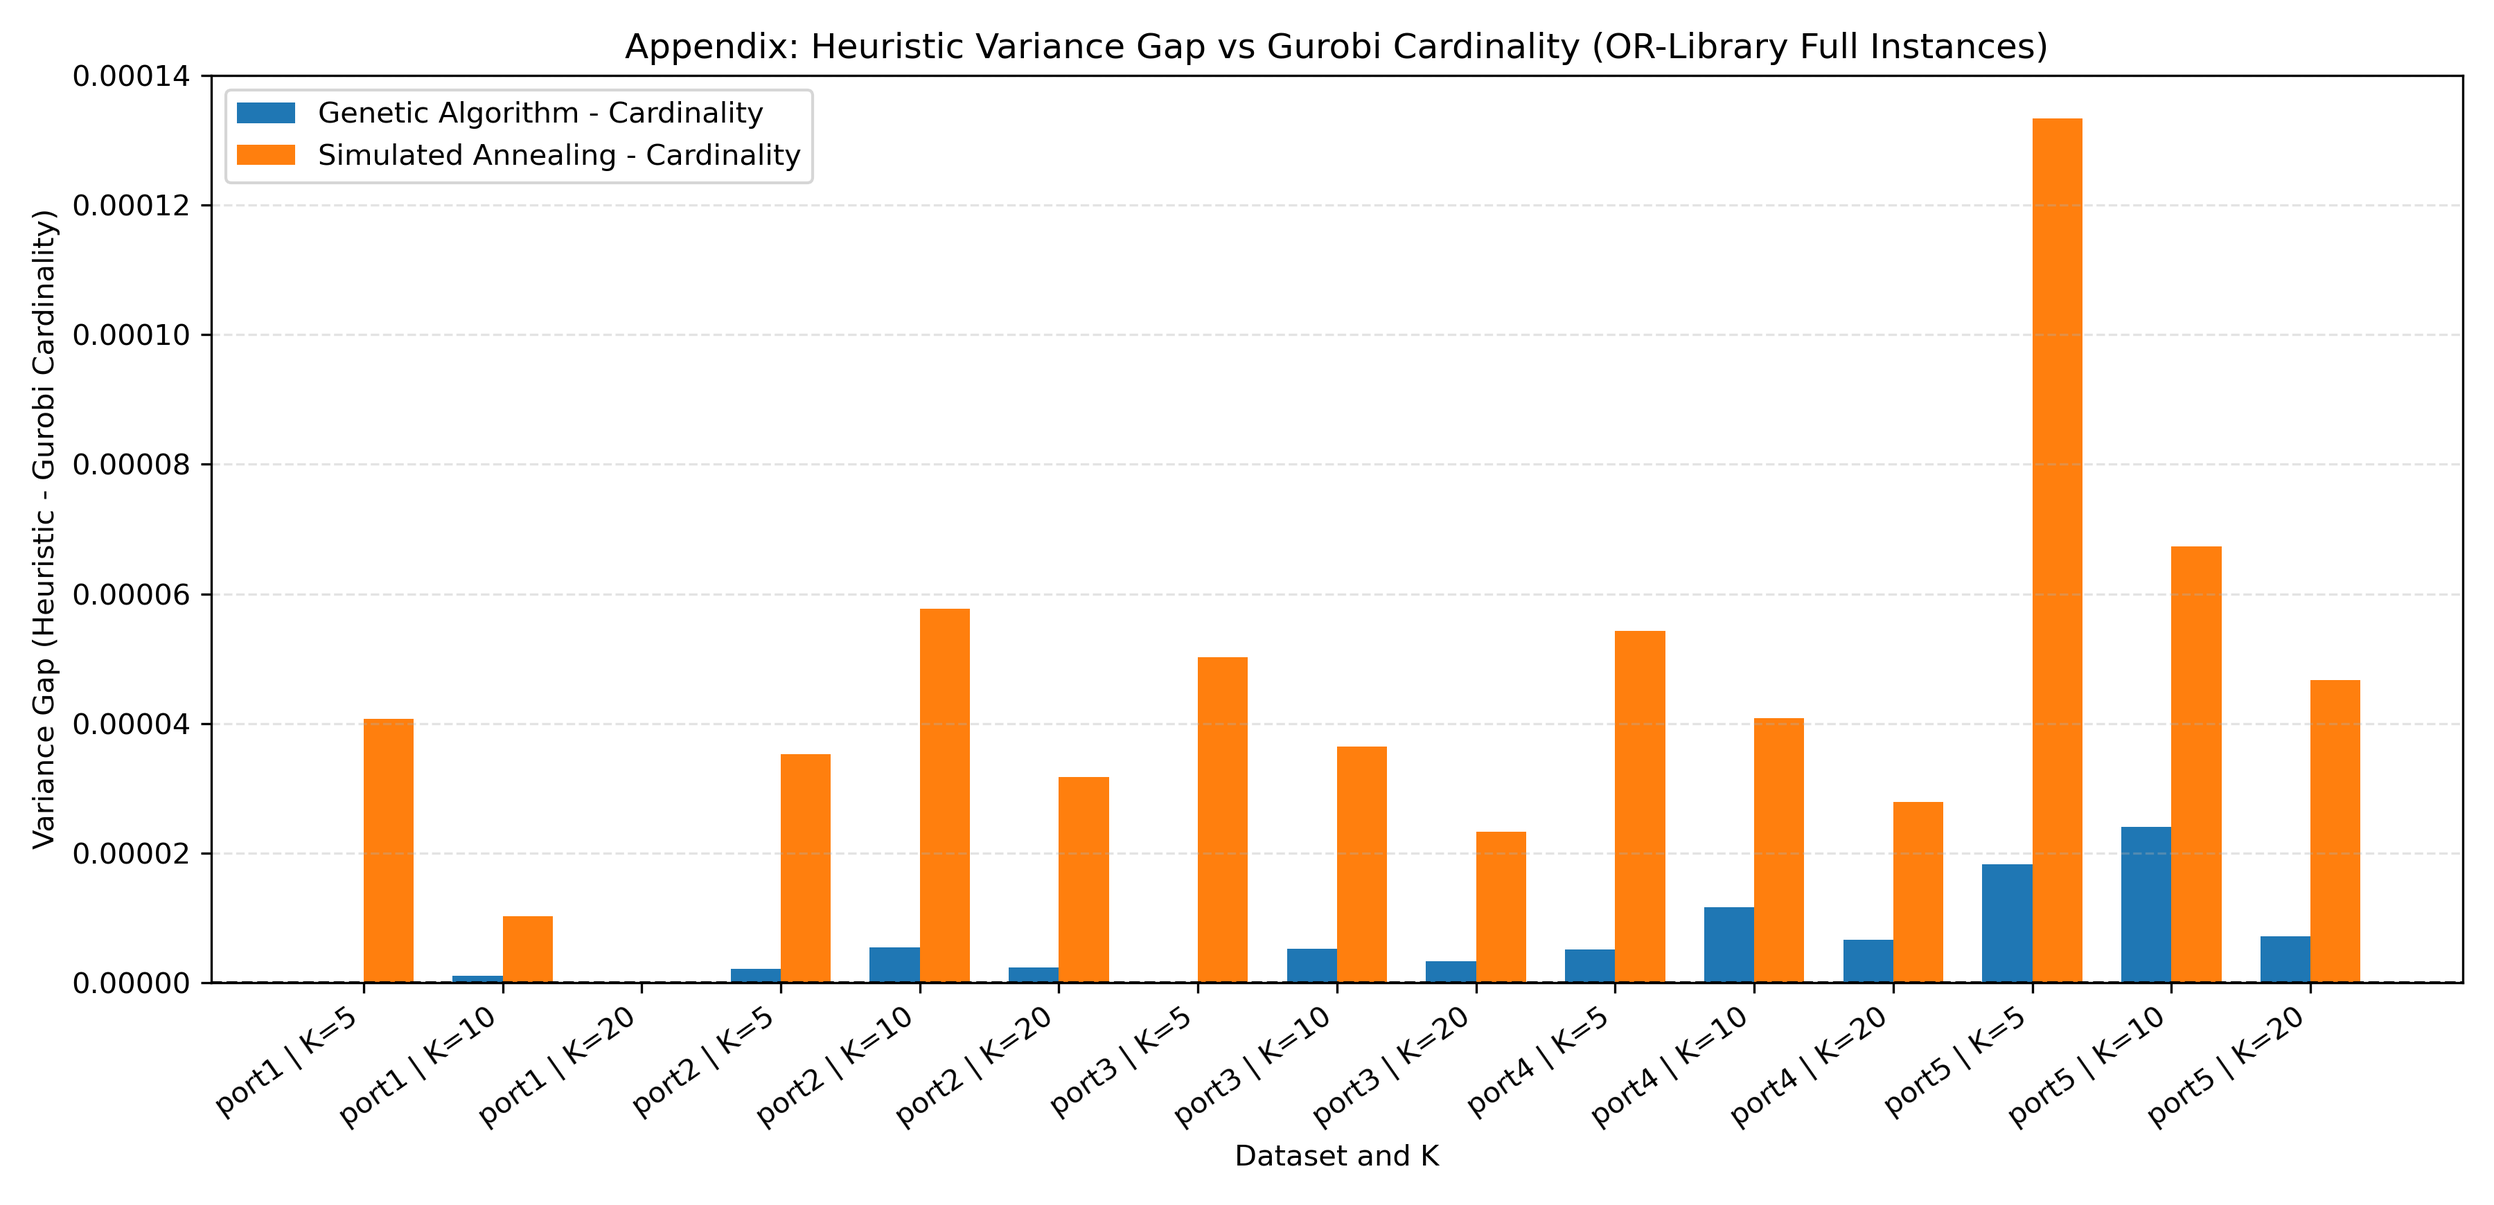
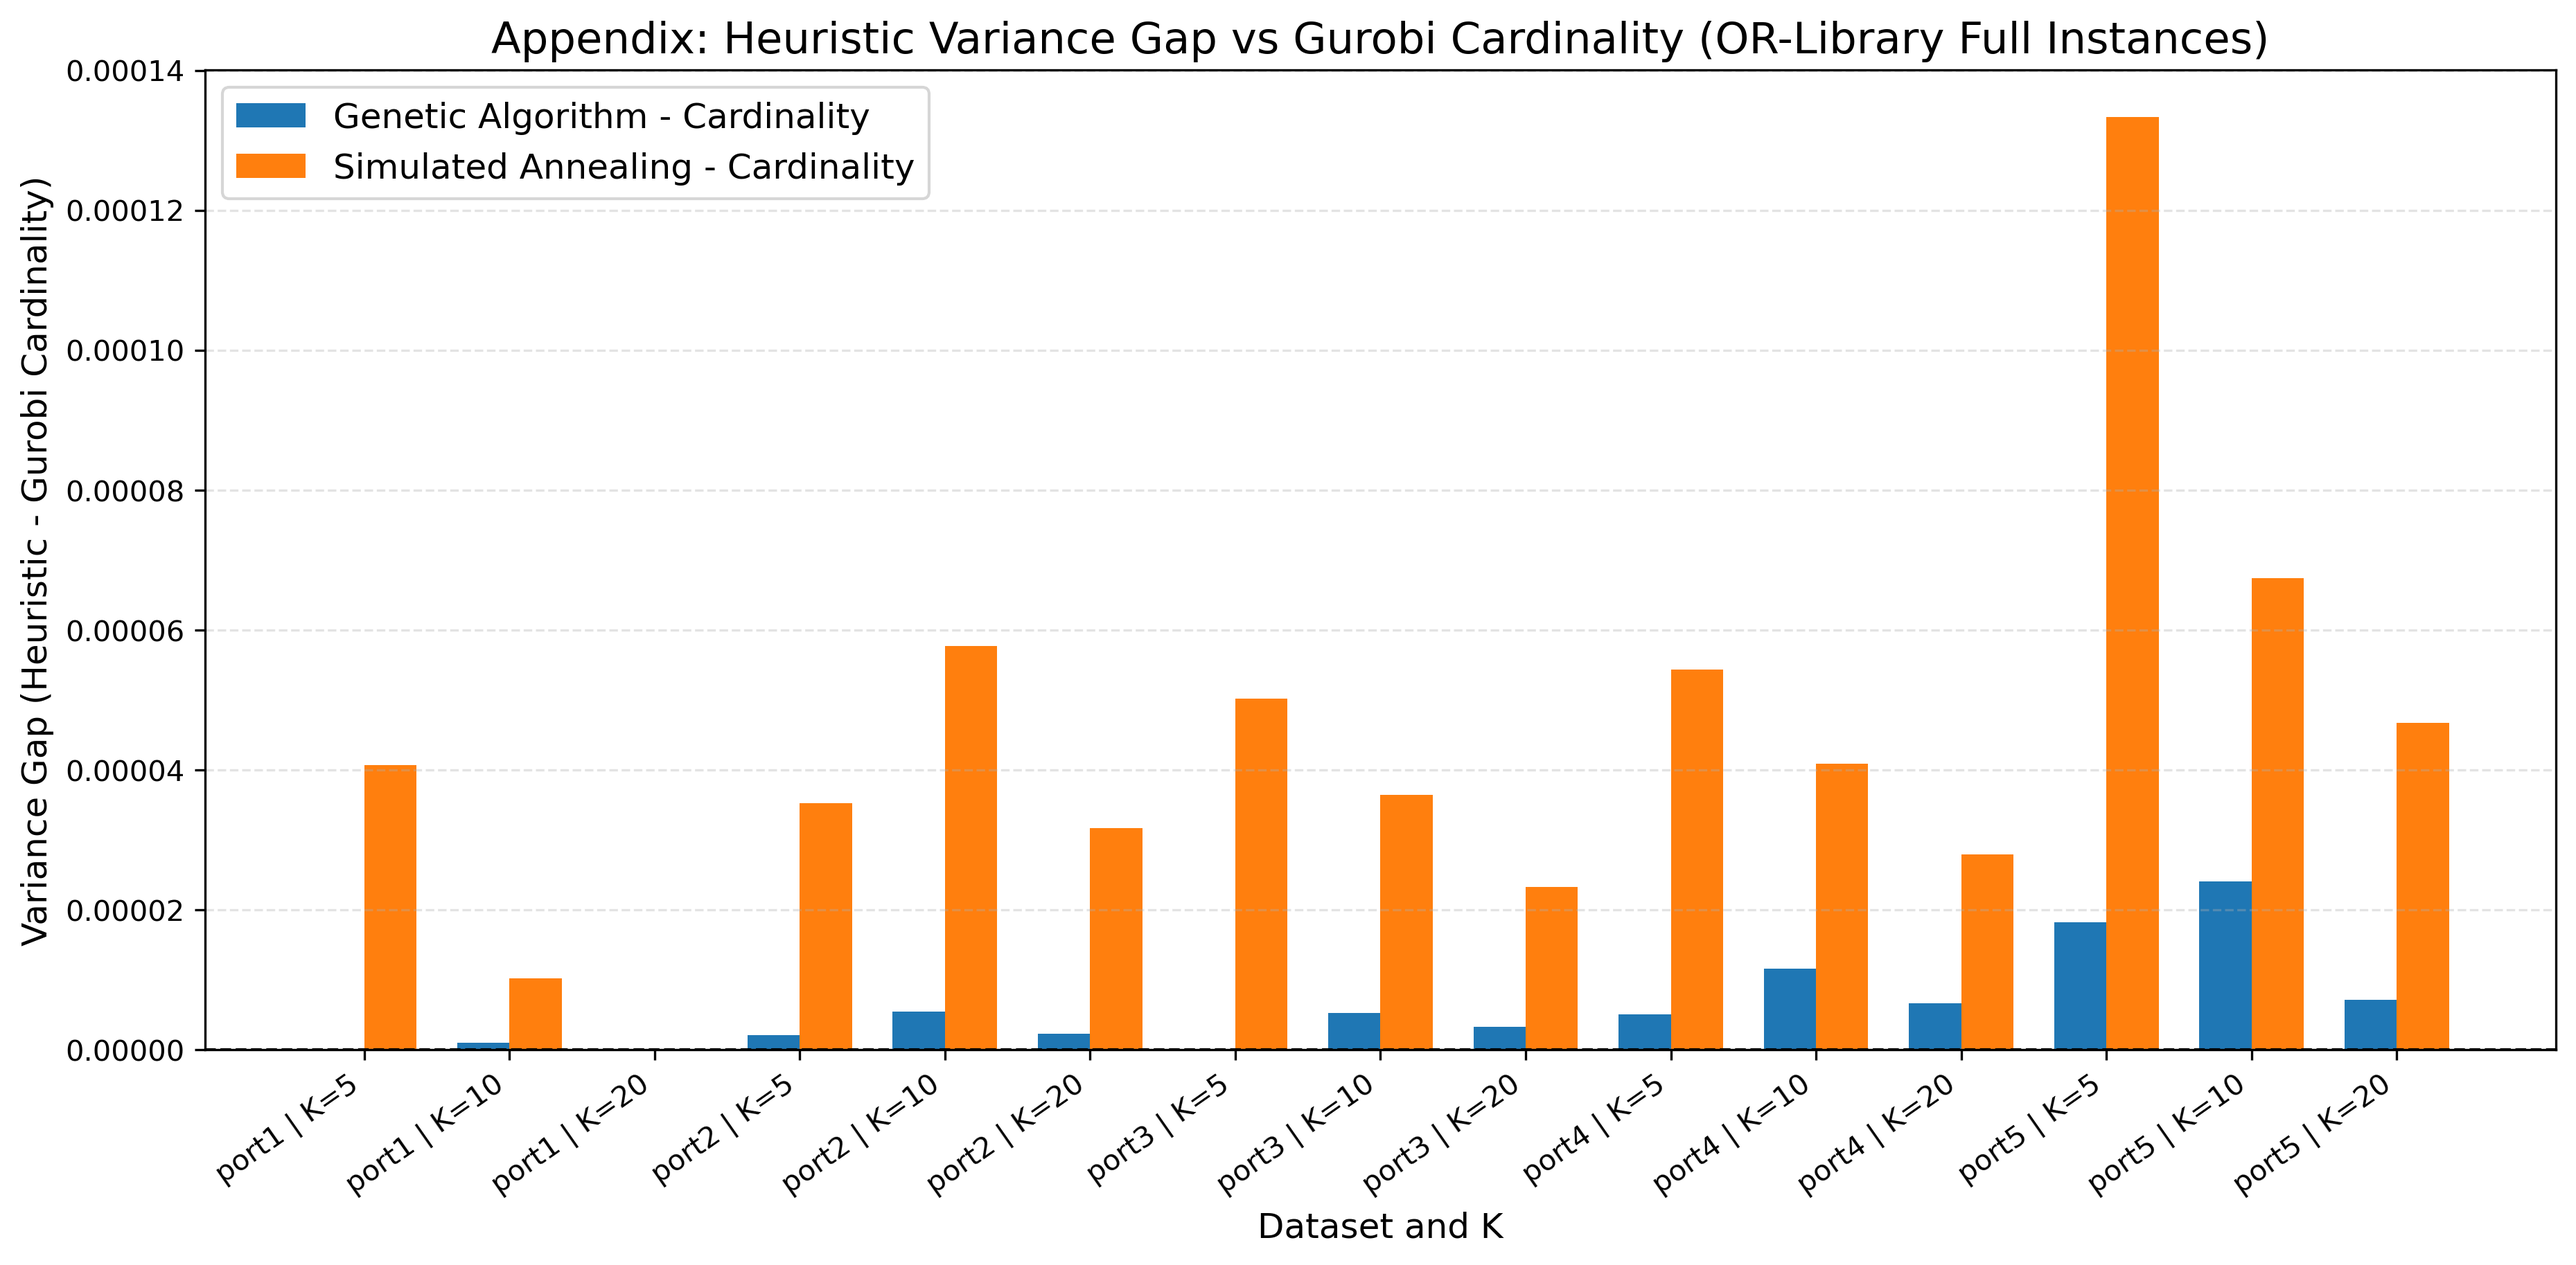
Finalize dissertation experiments and figures

diff --git a/experiments/create_portfolio_final_plots.py b/experiments/create_portfolio_final_plots.py
@@ -42,6 +42,14 @@ CATEGORY_ORDER = [
     "Best Sparse",
 ]
 
+TITLE_FONTSIZE = 17
+SUBPLOT_TITLE_FONTSIZE = 14
+AXIS_LABEL_FONTSIZE = 13
+TICK_LABEL_FONTSIZE = 11
+LEGEND_FONTSIZE = 12
+LEGEND_TITLE_FONTSIZE = 13
+ANNOTATION_FONTSIZE = 9
+
 
 def _ensure_dirs() -> None:
     TABLES_DIR.mkdir(parents=True, exist_ok=True)
@@ -102,8 +110,10 @@ def _plot_variance_by_k_and_method(df: pd.DataFrame) -> None:
     ncols = 3
     nrows = (len(datasets) + ncols - 1) // ncols
 
-    fig, axes = plt.subplots(nrows=nrows, ncols=ncols, figsize=(4.8 * ncols, 3.8 * nrows), sharex=True)
+    fig, axes = plt.subplots(nrows=nrows, ncols=ncols, figsize=(5.1 * ncols, 4.0 * nrows), sharex=True)
     axes = axes.flatten() if hasattr(axes, "flatten") else [axes]
+    legend_handles = None
+    legend_labels = None
 
     for idx, dataset in enumerate(datasets):
         ax = axes[idx]
@@ -117,17 +127,36 @@ def _plot_variance_by_k_and_method(df: pd.DataFrame) -> None:
             marker="o",
             ax=ax,
         )
-        ax.set_title(dataset)
-        ax.set_xlabel("K")
-        ax.set_ylabel("Portfolio Variance")
+        ax.set_title(dataset, fontsize=SUBPLOT_TITLE_FONTSIZE)
+        ax.set_xlabel("K", fontsize=AXIS_LABEL_FONTSIZE)
+        ax.set_ylabel("Portfolio Variance", fontsize=AXIS_LABEL_FONTSIZE)
+        ax.tick_params(axis="both", labelsize=TICK_LABEL_FONTSIZE)
 
-        if idx != 0 and ax.get_legend() is not None:
+        if ax.get_legend() is not None:
+            ax.get_legend().set_title("Method")
+            plt.setp(ax.get_legend().get_texts(), fontsize=LEGEND_FONTSIZE)
+            plt.setp(ax.get_legend().get_title(), fontsize=LEGEND_TITLE_FONTSIZE)
+            if legend_handles is None and legend_labels is None:
+                legend_handles, legend_labels = ax.get_legend_handles_labels()
             ax.get_legend().remove()
 
-    for idx in range(len(datasets), len(axes)):
+    for idx in range(len(datasets), len(axes) - 1):
         axes[idx].axis("off")
 
-    fig.suptitle("OR-Library: Portfolio Variance by K and Method", fontsize=14, y=0.98)
+    legend_ax = axes[-1]
+    legend_ax.axis("off")
+    if legend_handles is not None and legend_labels is not None:
+        legend_ax.legend(
+            legend_handles,
+            legend_labels,
+            loc="center",
+            title="Method",
+            fontsize=LEGEND_FONTSIZE,
+            title_fontsize=LEGEND_TITLE_FONTSIZE,
+            frameon=True,
+        )
+
+    fig.suptitle("OR-Library: Portfolio Variance by K and Method", fontsize=TITLE_FONTSIZE, y=0.98)
     fig.tight_layout(rect=[0, 0, 1, 0.94])
     fig.savefig(VARIANCE_FIG_PATH, dpi=300, bbox_inches="tight")
     plt.close(fig)
@@ -138,8 +167,10 @@ def _plot_selected_assets_by_k_and_method(df: pd.DataFrame) -> None:
     ncols = 3
     nrows = (len(datasets) + ncols - 1) // ncols
 
-    fig, axes = plt.subplots(nrows=nrows, ncols=ncols, figsize=(4.8 * ncols, 3.8 * nrows), sharex=True)
+    fig, axes = plt.subplots(nrows=nrows, ncols=ncols, figsize=(5.1 * ncols, 4.0 * nrows), sharex=True)
     axes = axes.flatten() if hasattr(axes, "flatten") else [axes]
+    legend_handles = None
+    legend_labels = None
 
     for idx, dataset in enumerate(datasets):
         ax = axes[idx]
@@ -158,17 +189,36 @@ def _plot_selected_assets_by_k_and_method(df: pd.DataFrame) -> None:
         k_values = sorted(subset["K"].dropna().unique())
         ax.plot(k_values, k_values, linestyle="--", linewidth=1, color="black", label="selected_assets = K")
 
-        ax.set_title(dataset)
-        ax.set_xlabel("K")
-        ax.set_ylabel("Number of Selected Assets")
+        ax.set_title(dataset, fontsize=SUBPLOT_TITLE_FONTSIZE)
+        ax.set_xlabel("K", fontsize=AXIS_LABEL_FONTSIZE)
+        ax.set_ylabel("Number of Selected Assets", fontsize=AXIS_LABEL_FONTSIZE)
+        ax.tick_params(axis="both", labelsize=TICK_LABEL_FONTSIZE)
 
-        if idx != 0 and ax.get_legend() is not None:
+        if ax.get_legend() is not None:
+            ax.get_legend().set_title("Method")
+            plt.setp(ax.get_legend().get_texts(), fontsize=LEGEND_FONTSIZE)
+            plt.setp(ax.get_legend().get_title(), fontsize=LEGEND_TITLE_FONTSIZE)
+            if legend_handles is None and legend_labels is None:
+                legend_handles, legend_labels = ax.get_legend_handles_labels()
             ax.get_legend().remove()
 
-    for idx in range(len(datasets), len(axes)):
+    for idx in range(len(datasets), len(axes) - 1):
         axes[idx].axis("off")
 
-    fig.suptitle("OR-Library: Number of Selected Assets by K and Method", fontsize=14, y=0.98)
+    legend_ax = axes[-1]
+    legend_ax.axis("off")
+    if legend_handles is not None and legend_labels is not None:
+        legend_ax.legend(
+            legend_handles,
+            legend_labels,
+            loc="center",
+            title="Method",
+            fontsize=LEGEND_FONTSIZE,
+            title_fontsize=LEGEND_TITLE_FONTSIZE,
+            frameon=True,
+        )
+
+    fig.suptitle("OR-Library: Number of Selected Assets by K and Method", fontsize=TITLE_FONTSIZE, y=0.98)
     fig.tight_layout(rect=[0, 0, 1, 0.94])
     fig.savefig(SELECTED_ASSETS_FIG_PATH, dpi=300, bbox_inches="tight")
     plt.close(fig)
@@ -203,11 +253,17 @@ def _plot_runtime_heatmap(df: pd.DataFrame) -> bool:
         fmt=".2f",
         cmap="YlGnBu",
         cbar_kws={"label": "Solve Time (seconds)"},
+        annot_kws={"fontsize": ANNOTATION_FONTSIZE},
         ax=ax,
     )
-    ax.set_title("OR-Library: Runtime by Dataset, K, and Method")
-    ax.set_xlabel("Method")
-    ax.set_ylabel("Dataset and K")
+    ax.set_title("OR-Library: Runtime by Dataset, K, and Method", fontsize=TITLE_FONTSIZE)
+    ax.set_xlabel("Method", fontsize=AXIS_LABEL_FONTSIZE)
+    ax.set_ylabel("Dataset and K", fontsize=AXIS_LABEL_FONTSIZE)
+    ax.tick_params(axis="both", labelsize=TICK_LABEL_FONTSIZE)
+
+    colorbar = ax.collections[0].colorbar
+    colorbar.ax.tick_params(labelsize=TICK_LABEL_FONTSIZE)
+    colorbar.set_label("Solve Time (seconds)", fontsize=AXIS_LABEL_FONTSIZE)
 
     fig.tight_layout()
     fig.savefig(RUNTIME_FIG_PATH, dpi=300, bbox_inches="tight")

diff --git a/experiments/create_regression_figures.py b/experiments/create_regression_figures.py
@@ -28,6 +28,12 @@ FIG_MSE = FIGURES_DIR / "regression_test_mse_by_dataset_method.png"
 FIG_FEATURES = FIGURES_DIR / "regression_selected_features_by_dataset_method.png"
 FIG_SCATTER = FIGURES_DIR / "regression_mse_vs_sparsity.png"
 
+TITLE_FONTSIZE = 15
+AXIS_LABEL_FONTSIZE = 12
+TICK_LABEL_FONTSIZE = 10
+LEGEND_FONTSIZE = 10
+LEGEND_TITLE_FONTSIZE = 11
+
 METHOD_LABELS = {
     "OLS": "OLS",
     "LASSO": "LASSO",
@@ -103,7 +109,7 @@ def _plot_grouped_bar(df: pd.DataFrame, y_col: str, ylabel: str, title: str, out
         (1.5 * width),
     ]
 
-    fig, ax = plt.subplots(figsize=(11, 5.8))
+    fig, ax = plt.subplots(figsize=(11.5, 6.2))
 
     for idx, method in enumerate(methods_present):
         method_df = df[df["method"].astype(str) == method].set_index("dataset")
@@ -111,16 +117,17 @@ def _plot_grouped_bar(df: pd.DataFrame, y_col: str, ylabel: str, title: str, out
         bars_x = [x + offsets[idx] for x in x_positions]
         ax.bar(bars_x, values, width=width, label=method)
 
-    ax.set_title(title)
-    ax.set_xlabel("Dataset")
-    ax.set_ylabel(ylabel)
+    ax.set_title(title, fontsize=TITLE_FONTSIZE)
+    ax.set_xlabel("Dataset", fontsize=AXIS_LABEL_FONTSIZE)
+    ax.set_ylabel(ylabel, fontsize=AXIS_LABEL_FONTSIZE)
     ax.set_xticks(x_positions)
-    ax.set_xticklabels(datasets, rotation=20, ha="right")
-    ax.legend(title="Method")
+    ax.set_xticklabels(datasets, rotation=20, ha="right", fontsize=TICK_LABEL_FONTSIZE)
+    ax.tick_params(axis="y", labelsize=TICK_LABEL_FONTSIZE)
+    ax.legend(title="Method", fontsize=LEGEND_FONTSIZE, title_fontsize=LEGEND_TITLE_FONTSIZE)
     ax.grid(axis="y", linestyle="--", alpha=0.35)
 
     fig.tight_layout()
-    fig.savefig(output_path, dpi=300)
+    fig.savefig(output_path, dpi=300, bbox_inches="tight")
     plt.close(fig)
 
 
@@ -137,9 +144,8 @@ def _plot_mse_vs_sparsity(df: pd.DataFrame) -> None:
         "IHT": "tab:red",
     }
 
-    fig, ax = plt.subplots(figsize=(8.5, 6))
+    fig, ax = plt.subplots(figsize=(10, 6.4))
 
-    # Plot points by (dataset, method) and annotate with short labels.
     for _, row in df.iterrows():
         dataset = str(row["dataset"])
         method = str(row["method"])
@@ -156,17 +162,11 @@ def _plot_mse_vs_sparsity(df: pd.DataFrame) -> None:
             edgecolors="black",
             linewidths=0.4,
         )
-        ax.annotate(
-            f"{dataset}-{method.split()[0]}",
-            (x, y),
-            textcoords="offset points",
-            xytext=(4, 4),
-            fontsize=7,
-        )
 
-    ax.set_title("Regression: Test MSE vs. Sparsity")
-    ax.set_xlabel("Number of Selected Features")
-    ax.set_ylabel("Test MSE")
+    ax.set_title("Regression: Test MSE vs. Sparsity", fontsize=TITLE_FONTSIZE)
+    ax.set_xlabel("Number of Selected Features", fontsize=AXIS_LABEL_FONTSIZE)
+    ax.set_ylabel("Test MSE", fontsize=AXIS_LABEL_FONTSIZE)
+    ax.tick_params(axis="both", labelsize=TICK_LABEL_FONTSIZE)
     ax.grid(True, linestyle="--", alpha=0.35)
 
     # Build compact legends: one for methods (color), one for datasets (marker).
@@ -197,12 +197,28 @@ def _plot_mse_vs_sparsity(df: pd.DataFrame) -> None:
         )
         dataset_handles.append(handle)
 
-    legend1 = ax.legend(handles=method_handles, title="Method", loc="upper right")
+    legend1 = ax.legend(
+        handles=method_handles,
+        title="Method",
+        loc="upper left",
+        bbox_to_anchor=(1.02, 1.0),
+        borderaxespad=0.0,
+        fontsize=LEGEND_FONTSIZE,
+        title_fontsize=LEGEND_TITLE_FONTSIZE,
+    )
     ax.add_artist(legend1)
-    ax.legend(handles=dataset_handles, title="Dataset", loc="lower right")
+    ax.legend(
+        handles=dataset_handles,
+        title="Dataset",
+        loc="lower left",
+        bbox_to_anchor=(1.02, 0.0),
+        borderaxespad=0.0,
+        fontsize=LEGEND_FONTSIZE,
+        title_fontsize=LEGEND_TITLE_FONTSIZE,
+    )
 
-    fig.tight_layout()
-    fig.savefig(FIG_SCATTER, dpi=300)
+    fig.tight_layout(rect=[0, 0, 0.82, 1])
+    fig.savefig(FIG_SCATTER, dpi=300, bbox_inches="tight")
     plt.close(fig)
 
 

diff --git a/experiments/create_yahoo_portfolio_figure.py b/experiments/create_yahoo_portfolio_figure.py
@@ -1,0 +1,91 @@
+"""Create a dissertation figure for Yahoo Finance portfolio variance results.
+
+Output:
+- results/figures/portfolio_yahoo_variance_by_method.png
+"""
+
+from __future__ import annotations
+
+from pathlib import Path
+
+import matplotlib.pyplot as plt
+
+ROOT = Path(__file__).resolve().parents[1]
+FIGURES_DIR = ROOT / "results" / "figures"
+OUTPUT_PATH = FIGURES_DIR / "portfolio_yahoo_variance_by_method.png"
+
+TITLE_FONTSIZE = 15
+SUBPLOT_TITLE_FONTSIZE = 12
+AXIS_LABEL_FONTSIZE = 12
+TICK_LABEL_FONTSIZE = 10
+ANNOTATION_FONTSIZE = 9
+
+METHODS = [
+    "No-sparsity baseline",
+    "Gurobi cardinality",
+    "Genetic Algorithm",
+    "Simulated Annealing",
+]
+
+DATASETS = [
+    {
+        "name": "Yahoo_20stocks",
+        "variance": [0.000155, 0.000158, 0.000158, 0.000160],
+        "risk": [0.012436, 0.012569, 0.012569, 0.012643],
+        "selected_assets": [14, 5, 5, 5],
+        "k_values": ["-", "5", "5", "5"],
+    },
+    {
+        "name": "Yahoo_5stocks",
+        "variance": [0.000318, 0.000323, 0.000323, 0.000323],
+        "risk": [0.017825, 0.017964, 0.017964, 0.017964],
+        "selected_assets": [4, 3, 3, 3],
+        "k_values": ["-", "3", "3", "3"],
+    },
+]
+
+COLORS = ["#4C78A8", "#F58518", "#54A24B", "#E45756"]
+
+
+def _plot_panel(ax: plt.Axes, dataset: dict[str, object]) -> None:
+    variances = dataset["variance"]
+    bars = ax.bar(METHODS, variances, color=COLORS, edgecolor="black", linewidth=0.6)
+
+    ax.set_title(str(dataset["name"]), fontsize=SUBPLOT_TITLE_FONTSIZE)
+    ax.set_ylabel("Portfolio Variance", fontsize=AXIS_LABEL_FONTSIZE)
+    ax.ticklabel_format(axis="y", style="plain")
+    ax.set_xticks(range(len(METHODS)))
+    ax.set_xticklabels(METHODS, rotation=20, ha="right", fontsize=TICK_LABEL_FONTSIZE)
+    ax.tick_params(axis="y", labelsize=TICK_LABEL_FONTSIZE)
+    ax.grid(axis="y", linestyle="--", alpha=0.35)
+
+    for bar, variance in zip(bars, variances):
+        ax.text(
+            bar.get_x() + bar.get_width() / 2,
+            bar.get_height(),
+            f"{variance:.6f}",
+            ha="center",
+            va="bottom",
+            fontsize=ANNOTATION_FONTSIZE,
+        )
+
+
+def main() -> None:
+    FIGURES_DIR.mkdir(parents=True, exist_ok=True)
+
+    plt.style.use("seaborn-v0_8-whitegrid")
+    fig, axes = plt.subplots(1, 2, figsize=(12, 5.5), sharey=False)
+
+    for ax, dataset in zip(axes, DATASETS):
+        _plot_panel(ax, dataset)
+
+    fig.suptitle("Yahoo Finance: Portfolio Variance by Method", fontsize=TITLE_FONTSIZE)
+    fig.tight_layout(rect=[0, 0, 1, 0.94])
+    fig.savefig(OUTPUT_PATH, dpi=300, bbox_inches="tight")
+    plt.close(fig)
+
+    print(f"Saved figure: {OUTPUT_PATH}")
+
+
+if __name__ == "__main__":
+    main()

diff --git a/experiments/create_appendix_figures.py b/experiments/create_appendix_figures.py
@@ -19,6 +19,11 @@ INPUT_PATH = ROOT / "results" / "tables" / "portfolio_overall_summary.csv"
 OUTPUT_DIR = ROOT / "results" / "figures"
 OUTPUT_PATH = OUTPUT_DIR / "appendix_portfolio_heuristic_gap_vs_gurobi.png"
 
+TITLE_FONTSIZE = 15
+AXIS_LABEL_FONTSIZE = 12
+TICK_LABEL_FONTSIZE = 10
+LEGEND_FONTSIZE = 12
+LEGEND_TITLE_FONTSIZE = 13
 
 CATEGORIES_REQUIRED = ["Gurobi Cardinality", "Genetic Algorithm", "Simulated Annealing"]
 
@@ -70,7 +75,7 @@ def _plot_gap(gaps: pd.DataFrame) -> None:
     x = list(range(len(labels)))
     width = 0.36
 
-    fig, ax = plt.subplots(figsize=(12, 5.8))
+    fig, ax = plt.subplots(figsize=(12.5, 6.2))
 
     ga_vals = gaps["gap_genetic_algorithm"].tolist()
     sa_vals = gaps["gap_simulated_annealing"].tolist()
@@ -79,16 +84,20 @@ def _plot_gap(gaps: pd.DataFrame) -> None:
     ax.bar([i + width / 2 for i in x], sa_vals, width=width, label="Simulated Annealing - Cardinality")
 
     ax.axhline(0.0, color="black", linewidth=1.0, linestyle="--")
-    ax.set_title("Appendix: Heuristic Variance Gap vs Gurobi Cardinality (OR-Library Full Instances)")
-    ax.set_xlabel("Dataset and K")
-    ax.set_ylabel("Variance Gap (Heuristic - Gurobi Cardinality)")
+    ax.set_title(
+        "Appendix: Heuristic Variance Gap vs Gurobi Cardinality (OR-Library Full Instances)",
+        fontsize=TITLE_FONTSIZE,
+    )
+    ax.set_xlabel("Dataset and K", fontsize=AXIS_LABEL_FONTSIZE)
+    ax.set_ylabel("Variance Gap (Heuristic - Gurobi Cardinality)", fontsize=AXIS_LABEL_FONTSIZE)
     ax.set_xticks(x)
-    ax.set_xticklabels(labels, rotation=35, ha="right")
-    ax.legend()
+    ax.set_xticklabels(labels, rotation=35, ha="right", fontsize=TICK_LABEL_FONTSIZE)
+    ax.tick_params(axis="y", labelsize=TICK_LABEL_FONTSIZE)
+    ax.legend(fontsize=LEGEND_FONTSIZE, title_fontsize=LEGEND_TITLE_FONTSIZE)
     ax.grid(axis="y", linestyle="--", alpha=0.35)
 
     fig.tight_layout()
-    fig.savefig(OUTPUT_PATH, dpi=300)
+    fig.savefig(OUTPUT_PATH, dpi=300, bbox_inches="tight")
     plt.close(fig)
 
 
